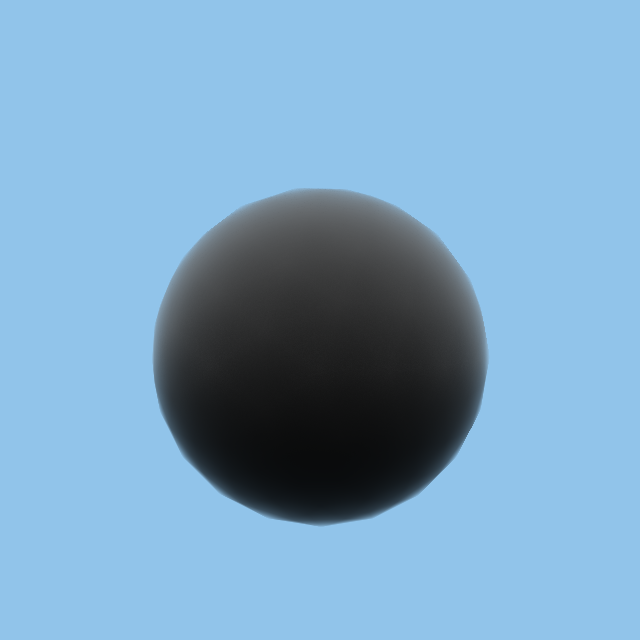
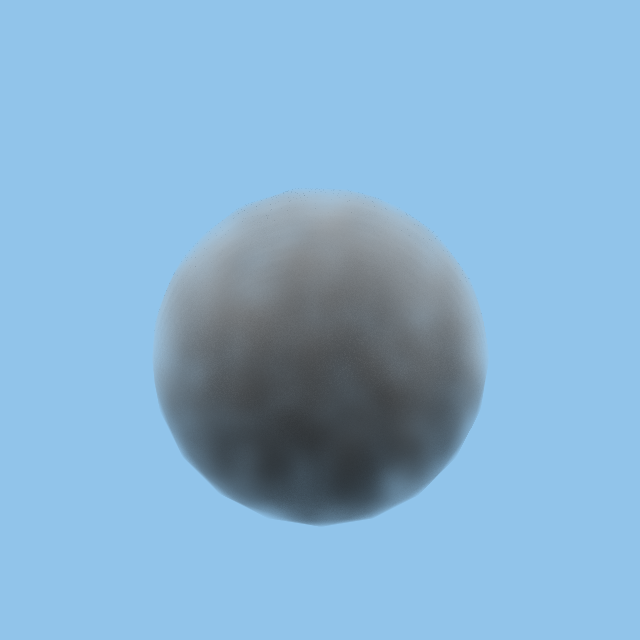
scratchpixel4 with heterogeneous volume done + cpp version to 20

Changed region(s): [[0.2188, 0.2812, 0.7812, 0.8438]]

diff --git a/VolumeRenderer/RayTracer/Utils/PerlinNoiseSampler.cpp b/VolumeRenderer/RayTracer/Utils/PerlinNoiseSampler.cpp
@@ -1,0 +1,129 @@
+#include "PerlinNoiseSampler.h"
+#include "Utils.h"
+
+#include <cmath>
+#include <algorithm>
+
+PerlinNoiseSampler* PerlinNoiseSampler::_instance = nullptr;
+
+PerlinNoiseSampler::PerlinNoiseSampler() {}
+
+int permutation[256] = {
+    151, 160, 137,  91,  90,  15, 131,  13, 201,  95,  96,  53, 194, 233,   7, 225,
+    140,  36, 103,  30,  69, 142,   8,  99,  37, 240,  21,  10,  23, 190,   6, 148,
+    247, 120, 234,  75,   0,  26, 197,  62,  94, 252, 219, 203, 117,  35,  11,  32,
+     57, 177,  33,  88, 237, 149,  56,  87, 174,  20, 125, 136, 171, 168,  68, 175,
+     74, 165,  71, 134, 139,  48,  27, 166,  77, 146, 158, 231,  83, 111, 229, 122,
+     60, 211, 133, 230, 220, 105,  92,  41,  55,  46, 245,  40, 244, 102, 143,  54,
+     65,  25,  63, 161,   1, 216,  80,  73, 209,  76, 132, 187, 208,  89,  18, 169,
+    200, 196, 135, 130, 116, 188, 159,  86, 164, 100, 109, 198, 173, 186,   3,  64,
+     52, 217, 226, 250, 124, 123,   5, 202,  38, 147, 118, 126, 255,  82,  85, 212,
+    207, 206,  59, 227,  47,  16,  58,  17, 182, 189,  28,  42, 223, 183, 170, 213,
+    119, 248, 152,   2,  44, 154, 163,  70, 221, 153, 101, 155, 167,  43, 172,   9,
+    129,  22,  39, 253,  19,  98, 108, 110,  79, 113, 224, 232, 178, 185, 112, 104,
+    218, 246,  97, 228, 251,  34, 242, 193, 238, 210, 144,  12, 191, 179, 162, 241,
+     81,  51, 145, 235, 249,  14, 239, 107,  49, 192, 214,  31, 181, 199, 106, 157,
+    184,  84, 204, 176, 115, 121,  50,  45, 127,   4, 150, 254, 138, 236, 205,  93,
+    222, 114,  67,  29,  24,  72, 243, 141, 128, 195,  78,  66, 215,  61, 156, 180
+};
+
+int p[512];
+
+float fade(float t) { return t * t * t * (t * (t * 6 - 15) + 10); }
+float lerp(float t, float a, float b) { return a + t * (b - a); }
+float grad(int hash, float x, float y, float z)
+{
+    int h = hash & 15;
+    float u = h < 8 ? x : y,
+        v = h < 4 ? y : h == 12 || h == 14 ? x : z;
+    return ((h & 1) == 0 ? u : -u) + ((h & 2) == 0 ? v : -v);
+}
+
+// [comment]
+// We use a Perlin noise procedural texture to create a space varying density field.
+// This function returns values in the range [-1,1].
+// [/comment]
+float noise(float x, float y, float z)
+{
+    int X = static_cast<int>(std::floor(x)) & 255,
+        Y = static_cast<int>(std::floor(y)) & 255,
+        Z = static_cast<int>(std::floor(z)) & 255;
+    x -= std::floor(x);
+    y -= std::floor(y);
+    z -= std::floor(z);
+    float u = fade(x),
+        v = fade(y),
+        w = fade(z);
+    int A = p[X] + Y, AA = p[A] + Z, AB = p[A + 1] + Z,
+        B = p[X + 1] + Y, BA = p[B] + Z, BB = p[B + 1] + Z;
+
+    return  lerp(w, lerp(v, lerp(u, grad(p[AA], x, y, z),
+            grad(p[BA], x - 1, y, z)),
+            lerp(u, grad(p[AB], x, y - 1, z),
+            grad(p[BB], x - 1, y - 1, z))),
+            lerp(v, lerp(u, grad(p[AA + 1], x, y, z - 1),
+            grad(p[BA + 1], x - 1, y, z - 1)),
+            lerp(u, grad(p[AB + 1], x, y - 1, z - 1),
+            grad(p[BB + 1], x - 1, y - 1, z - 1))));
+}
+
+float smoothstep(float lo, float hi, float x)
+{
+    float t = std::clamp((x - lo) / (hi - lo), 0.f, 1.f);
+    return t * t * (3.0 - (2.0 * t));
+}
+
+PerlinNoiseSampler* PerlinNoiseSampler::getInstance()
+{
+	if (PerlinNoiseSampler::_instance == nullptr) {
+		PerlinNoiseSampler::_instance = new PerlinNoiseSampler();
+
+        // init noise permutation table
+        for (size_t i = 0; i < 256; i++)
+            p[256 + i] = p[i] = permutation[i];
+	}		
+
+	return _instance;
+}
+
+// [comment]
+// This function is now called by the integrate function to evaluate the density of the 
+// heterogeneous volume sphere at sample position p. It returns the value of the Perlin noise
+// function at that 3D position remapped to the range [0,1]
+// [/comment]
+float PerlinNoiseSampler::eval_density(const Vec3f& p)
+{
+    float freq = 1.5;
+    return (1 + noise(p.x * freq, p.y * freq, p.z * freq)) * 0.5;
+}
+
+// [comment]
+// Return the density of our volume object at position p. Uses a Perlin noise procedural
+// texture to create this space varying density field. We need to remap the noise() function
+// to the range [0,1].
+// [/comment]
+//float PerlinNoiseSampler::eval_density(const Vec3f& p)
+//{
+//    Vec3f vp = p - center;
+//    Vec3f vp_xform;
+//
+//    float theta = (frame - 1) / 120.f * 2 * M_PI;
+//    vp_xform.x = cos(theta) * vp.x + sin(theta) * vp.z;
+//    vp_xform.y = vp.y;
+//    vp_xform.z = -sin(theta) * vp.x + cos(theta) * vp.z;
+//
+//    float dist = std::min(1.f, sqrt(Utils::distance2(p, center)) / radius);
+//    float falloff = smoothstep(0.8, 1, dist);
+//    float freq = 0.5;
+//    size_t octaves = 5;
+//    float lacunarity = 2;
+//    float H = 0.4;
+//    vp_xform *= freq;
+//    float fbmResult = 0;
+//    float offset = 0.75;
+//    for (size_t k = 0; k < octaves; k++) {
+//        fbmResult += noise(vp_xform.x, vp_xform.y, vp_xform.z) * pow(lacunarity, -H * k);
+//        vp_xform *= lacunarity;
+//    }
+//    return std::max(0.f, fbmResult) * (1 - falloff);//(1 - falloff);//std::max(0.f, fbmResult);// * (1 - falloff));
+//}

diff --git a/VolumeRenderer/RayTracer/IntersectionHandlers/ScratchPixel4IntersectionHandler.cpp b/VolumeRenderer/RayTracer/IntersectionHandlers/ScratchPixel4IntersectionHandler.cpp
@@ -1,9 +1,10 @@
-#include "ScratchPixel3IntersectionHandler.h"
+#include "ScratchPixel4IntersectionHandler.h"
 #include <random>
-#include "../Utils/DirectLightSampler.h"
 #include "../Utils/DirectionSampler.h"
+#include "../Utils/DirectLightSampler.h"
+#include "../Utils/PerlinNoiseSampler.h"
 
-Vec3f ScratchPixel3IntersectionHandler::HandleIntersection(HandleIntersectionData *data, uint32_t depth, uint32_t reboundFactor)
+Vec3f ScratchPixel4IntersectionHandler::HandleIntersection(HandleIntersectionData *data, uint32_t depth, uint32_t reboundFactor)
 {
 	auto material = data->sceneInfo->materials[data->sceneInfo->shapes[data->objectId].mesh.material_ids[0]];
 
@@ -13,25 +14,28 @@ Vec3f ScratchPixel3IntersectionHandler::HandleIntersection(HandleIntersectionDat
 		//exit intersection
 		if (data->previousObjectId == data->objectId)
 		{
-			float transparency = 1;
-			Vec3f result = Vec3f(0.0f);
 			auto distance = data->tFar;
 
 			Vec3f light_dir{ 0, 1, 0 };
-			Vec3f light_color{ 13.0f, 13.0f, 13.0f };
+			Vec3f light_color{ 20.0f, 20.0f, 20.0f };
 			//absorption coefficient
+			//auto sigma_a = 1 - material.dissolve;
 			auto sigma_a = 1 - material.dissolve;
 			//scattering coefficient
 			auto sigma_s = sigma_a;
-
-			auto density = 1.0f;
-
-			// asymmetry factor of the phase function
+			//extinction coefficient
+			auto sigma_t = sigma_a + sigma_s;
+			// heyney-greenstein asymmetry factor of the phase function
 			float g = 0.0; 
 
 			float step_size = 0.2;
 			int ns = std::ceil(distance / step_size);
 			step_size = distance / ns;
+
+			//initialize transmission to 1 (fully transparent)
+			float transparency = 1;
+			//initialize volumetric sphere color to 0
+			Vec3f result = Vec3f(0.0f);
 
 			auto rayDirection = Utils::normalize(data->rayDirection);
 			auto rayOrigin = data->rayOrigin;
@@ -50,9 +54,11 @@ Vec3f ScratchPixel3IntersectionHandler::HandleIntersection(HandleIntersectionDat
 				float t = step_size * (n + randomOffset);
 
 				Vec3f samplePosition = rayOrigin + rayDirection * t;
+				//evaluate the density at the sample location (space varying density)
+				auto density = PerlinNoiseSampler::getInstance()->eval_density(samplePosition);//eval_density(samplePosition);
 
 				//current sample transparency
-				float sampleAttenuation = exp(-step_size * density * (sigma_a + sigma_s));
+				float sampleAttenuation = exp(-step_size * density * sigma_t);
 
 				// attenuate volume object transparency by current sample transmission value
 				transparency *= sampleAttenuation;
@@ -61,14 +67,30 @@ Vec3f ScratchPixel3IntersectionHandler::HandleIntersection(HandleIntersectionDat
 				data->rayOrigin = samplePosition + data->rayDirection * 0.001;				
 				// In-Scattering. Find the distance traveled by light through 
 				// the volume to our sample point. Then apply Beer's law.							
-				if (Renderer::castSingleRay(data)){
+				if (density > 0 &&
+					Renderer::castSingleRay(data)){
+					float tau = 0;
 					auto distanceRayLightToExitInVolume = data->tFar;
+					auto num_steps_light = std::ceil(distanceRayLightToExitInVolume / step_size);
+
+					for (size_t nl = 0; nl < num_steps_light; ++nl) {
+						float tLight = step_size * (nl + 0.5);
+						Vec3f samplePosLight = samplePosition + tLight * light_dir;
+						tau += PerlinNoiseSampler::getInstance()->eval_density(samplePosLight);
+					}
 
 					float cos_theta = Utils::dotProduct(rayDirection, light_dir);
-					float light_attenuation = exp(-distanceRayLightToExitInVolume * density * (sigma_a + sigma_s));
+					float light_attenuation = exp(-tau * step_size * sigma_t);
 					// attenuate in-scattering contrib. by the transmission of all samples accumulated so far
 					//result += transparency * light_color * light_attenuation * sigma_s * density * step_size;
-					result += light_color * light_attenuation * density * sigma_s * PhaseFunction::heyney_greenstein(g, cos_theta) * transparency * step_size;
+					result += 
+						light_color *										//light color
+						light_attenuation *									// light ray transmission value
+						density *											// volume density at the sample position
+						sigma_s *											// scattering coefficient
+						PhaseFunction::heyney_greenstein(g, cos_theta) *	// phase function
+						transparency *										// ray current transmission value
+						step_size;											// dx in our Riemann sum
 				}		
 			}						
 

diff --git a/VolumeRenderer/RayTracer/IntersectionHandlers/IntersectionHandlerFactory.cpp b/VolumeRenderer/RayTracer/IntersectionHandlers/IntersectionHandlerFactory.cpp
@@ -1,4 +1,10 @@
 #include "IntersectionHandlerFactory.h"
+#include "BasicIntersectionHandler.h"
+#include "ScratchPixel1IntersectionHandler.h"
+#include "ScratchPixel2IntersectionHandler.h"
+#include "ScratchPixel3IntersectionHandler.h"
+#include "ScratchPixel4IntersectionHandler.h"
+#include "DiffuseIntersectionHandler.h"
 
 BaseIntersectionHandler* IntersectionHandlerFactory::GetIntersectionHandler(std::string name)
 {
@@ -6,6 +12,7 @@ BaseIntersectionHandler* IntersectionHandlerFactory::GetIntersectionHandler(std:
     if (name._Equal("scratchPixel1")) return new ScratchPixel1IntersectionHandler();
     if (name._Equal("scratchPixel2")) return new ScratchPixel2IntersectionHandler();
     if (name._Equal("scratchPixel3")) return new ScratchPixel3IntersectionHandler();
+    if (name._Equal("scratchPixel4")) return new ScratchPixel4IntersectionHandler();
     if (name._Equal("diffuse")) return new DiffuseIntersectionHandler();
     
     throw std::invalid_argument("intersection handler from xml not set or invalid.");

diff --git a/VolumeRenderer/RayTracer/IntersectionHandlers/ScratchPixel4IntersectionHandler.h b/VolumeRenderer/RayTracer/IntersectionHandlers/ScratchPixel4IntersectionHandler.h
@@ -1,0 +1,22 @@
+#pragma once
+#ifndef VOLUMERENDERER_SCRATCH4INTERSECTIONHANDLER
+#define VOLUMERENDERER_SCRATCH4INTERSECTIONHANDLER
+
+#include "BaseIntersectionHandler.h"
+#include "../Utils\Utils.h"
+#include "..\Renderer.h"
+#include "../Utils/PhaseFunction.h"
+
+/// <summary>
+/// Scratchpixel - Volume rendering of a procedurally generated 3D Density field
+/// https://www.scratchapixel.com/lessons/3d-basic-rendering/volume-rendering-for-developers/volume-rendering-3D-density-field.html
+/// </summary>
+
+class ScratchPixel4IntersectionHandler :
+    public BaseIntersectionHandler
+{
+public:
+    virtual Vec3f HandleIntersection(HandleIntersectionData* data, uint32_t depth, uint32_t reboundFactor);
+};
+
+#endif // !VOLUMERENDERER_SCRATCH4INTERSECTIONHANDLER

diff --git a/VolumeRenderer/RayTracer/Utils/PerlinNoiseSampler.h b/VolumeRenderer/RayTracer/Utils/PerlinNoiseSampler.h
@@ -1,0 +1,18 @@
+#pragma once
+#ifndef VOLUMERENDERER_PERLINNOISESAMPLER
+#define VOLUMERENDERER_PERLINNOISESAMPLER
+
+#include "Types.h"
+
+class PerlinNoiseSampler
+{
+private:
+	PerlinNoiseSampler();
+	static PerlinNoiseSampler* _instance;
+public:
+	static PerlinNoiseSampler* getInstance();
+	float eval_density(const Vec3f& p);
+};
+
+#endif //VOLUMERENDERER_PERLINNOISESAMPLER
+

diff --git a/VolumeRenderer/RayTracer/IntersectionHandlers/IntersectionHandlerFactory.h b/VolumeRenderer/RayTracer/IntersectionHandlers/IntersectionHandlerFactory.h
@@ -4,11 +4,6 @@
 
 #include <string>
 #include "BaseIntersectionHandler.h"
-#include "BasicIntersectionHandler.h"
-#include "ScratchPixel1IntersectionHandler.h"
-#include "ScratchPixel2IntersectionHandler.h"
-#include "ScratchPixel3IntersectionHandler.h"
-#include "DiffuseIntersectionHandler.h"
 
 class IntersectionHandlerFactory
 {

diff --git a/VolumeRenderer/RayTracer/IntersectionHandlers/ScratchPixel1IntersectionHandler.cpp b/VolumeRenderer/RayTracer/IntersectionHandlers/ScratchPixel1IntersectionHandler.cpp
@@ -1,4 +1,6 @@
 #include "ScratchPixel1IntersectionHandler.h"
+#include "../Utils/DirectionSampler.h"
+#include "../Utils/DirectLightSampler.h"
 
 Vec3f ScratchPixel1IntersectionHandler::HandleIntersection(HandleIntersectionData *data, uint32_t depth, uint32_t reboundFactor)
 {

diff --git a/VolumeRenderer/RayTracer/IntersectionHandlers/ScratchPixel2IntersectionHandler.cpp b/VolumeRenderer/RayTracer/IntersectionHandlers/ScratchPixel2IntersectionHandler.cpp
@@ -1,4 +1,6 @@
 #include "ScratchPixel2IntersectionHandler.h"
+#include "../Utils/DirectLightSampler.h"
+#include "../Utils/DirectionSampler.h"
 
 Vec3f ScratchPixel2IntersectionHandler::HandleIntersection(HandleIntersectionData *data, uint32_t depth, uint32_t reboundFactor)
 {
